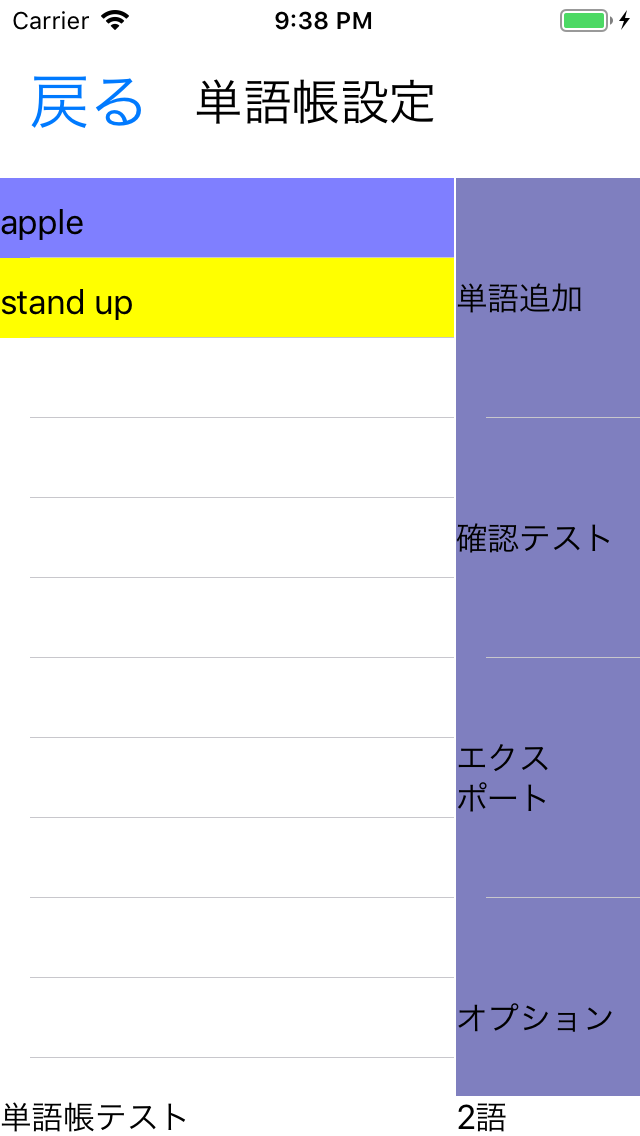
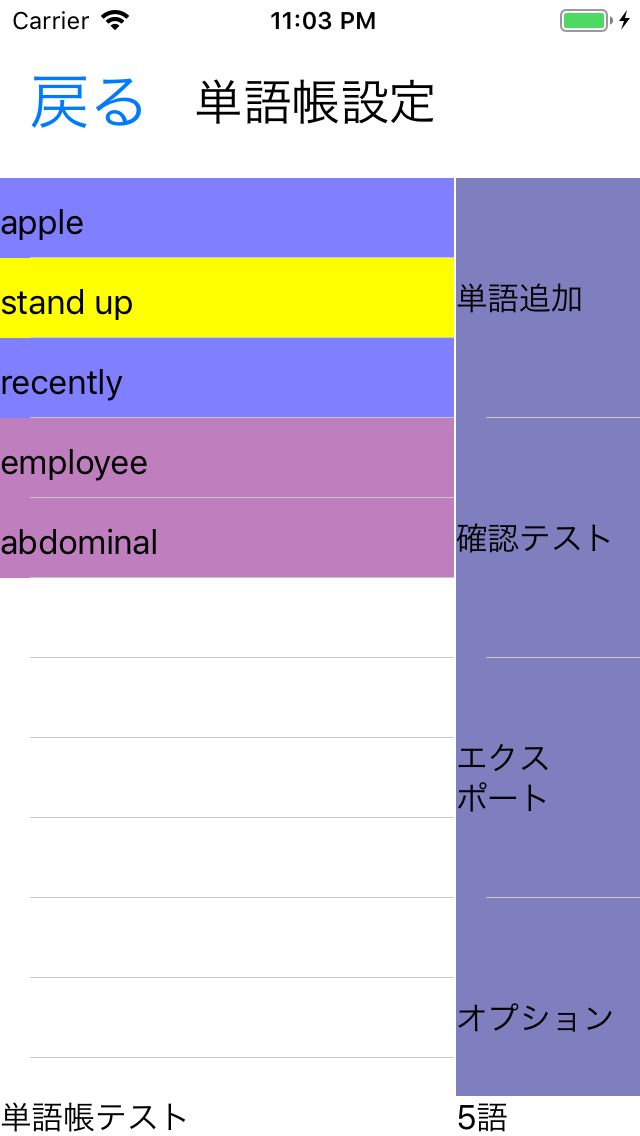
単語帳設定画面のみ、単語のセルの色を正解率に応じて変化させるようにした（熟語は例外）

Changed region(s): [[0.0, 0.2773, 0.7188, 0.5238], [0.4062, 0.0, 0.5938, 0.0308], [0.7188, 0.9551, 0.8125, 1.0]]

diff --git a/EnglishWords/EnglishWords/ConfigureWordNoteBookViewController.swift b/EnglishWords/EnglishWords/ConfigureWordNoteBookViewController.swift
@@ -88,7 +88,8 @@ class ConfigureWordNoteBookViewController: UIViewController, UITableViewDelegate
             if((oneword.word?.wordName.contains(" "))!){
                 cell.backgroundColor = UIColor(red: 1.0, green: 1.0, blue: 0.0, alpha: 1.0)
             }else{
-                cell.backgroundColor = UIColor(red: 0.0, green: 0.0, blue: 1.0, alpha: 0.5)
+                let rate = Double(oneword.word!.numOfCorrect) / ((oneword.word!.numOfAnswer == 0) ? 1.0 : Double(oneword.word!.numOfAnswer))
+                cell.backgroundColor = UIColor(red: CGFloat(1.0-rate), green: 0.0, blue: CGFloat(rate), alpha: 0.5)
             }
             return cell
         }
